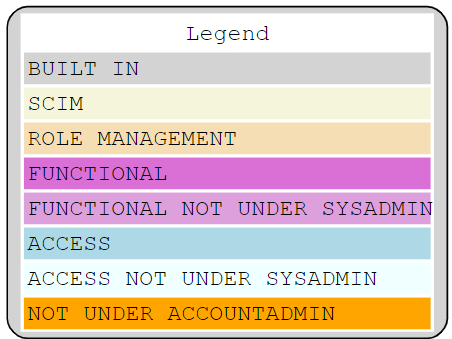
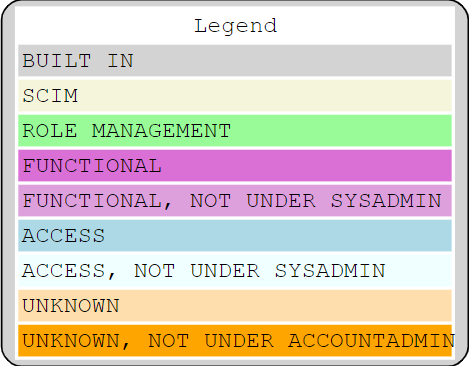
Changed colors for unknown role
Fixed #4

diff --git a/ProcessingSteps/Report/ReportUserRoleGrantHierarchyGraphViz.cs b/ProcessingSteps/Report/ReportUserRoleGrantHierarchyGraphViz.cs
@@ -268,12 +268,13 @@ namespace Snowflake.GrantReport.ProcessingSteps
     <tr><td align=""center"">Legend</td></tr>
     <tr><td align=""left"" bgcolor=""lightgray"">BUILT IN</td></tr>
     <tr><td align=""left"" bgcolor=""beige"">SCIM</td></tr>
-    <tr><td align=""left"" bgcolor=""wheat"">ROLE MANAGEMENT</td></tr>
+    <tr><td align=""left"" bgcolor=""palegreen"">ROLE MANAGEMENT</td></tr>
     <tr><td align=""left"" bgcolor=""orchid"">FUNCTIONAL</td></tr>
-    <tr><td align=""left"" bgcolor=""plum"">FUNCTIONAL NOT UNDER SYSADMIN</td></tr>
+    <tr><td align=""left"" bgcolor=""plum"">FUNCTIONAL, NOT UNDER SYSADMIN</td></tr>
     <tr><td align=""left"" bgcolor=""lightblue"">ACCESS</td></tr>
-    <tr><td align=""left"" bgcolor=""azure"">ACCESS NOT UNDER SYSADMIN</td></tr>
-    <tr><td align=""left"" bgcolor=""orange"">NOT UNDER ACCOUNTADMIN</td></tr>
+    <tr><td align=""left"" bgcolor=""azure"">ACCESS, NOT UNDER SYSADMIN</td></tr>
+    <tr><td align=""left"" bgcolor=""navajowhite"">UNKNOWN</td></tr>
+    <tr><td align=""left"" bgcolor=""orange"">UNKNOWN, NOT UNDER ACCOUNTADMIN</td></tr>
     </table>>];";
                                 sbGraphViz.AppendLine(legend);
                                 
@@ -496,8 +497,6 @@ namespace Snowflake.GrantReport.ProcessingSteps
             // Color names being used here https://graphviz.org/doc/info/colors.html
             switch (role.Type)
             {
-                case RoleType.Unknown:
-                    break;
                 case RoleType.BuiltIn:
                     styleAttribute = " [fillcolor=\"lightgray\"]";
                     break;
@@ -505,7 +504,7 @@ namespace Snowflake.GrantReport.ProcessingSteps
                     styleAttribute = " [fillcolor=\"beige\"]";
                     break;
                 case RoleType.RoleManagement:
-                    styleAttribute = " [fillcolor=\"wheat\"]";
+                    styleAttribute = " [fillcolor=\"palegreen\"]";
                     break;
                 case RoleType.Functional:
                     styleAttribute = " [fillcolor=\"orchid\"]";
@@ -519,7 +518,10 @@ namespace Snowflake.GrantReport.ProcessingSteps
                 case RoleType.AccessNotUnderSysadmin:
                     styleAttribute = " [fillcolor=\"azure\"]";
                     break;
-                case RoleType.NotUnderAccountAdmin:
+                case RoleType.Unknown:
+                    styleAttribute = " [fillcolor=\"navajowhite\"]";
+                    break;
+                case RoleType.UnknownNotUnderAccountAdmin:
                     styleAttribute = " [fillcolor=\"orange\"]";
                     break;
                 default:

diff --git a/ReportObjects/Role/RoleTypes.cs b/ReportObjects/Role/RoleTypes.cs
@@ -42,6 +42,6 @@ namespace Snowflake.GrantReport.ReportObjects
         AccessNotUnderSysadmin,
 
         // Not under ACCOUNTADMIN
-        NotUnderAccountAdmin
+        UnknownNotUnderAccountAdmin
     }
 }
